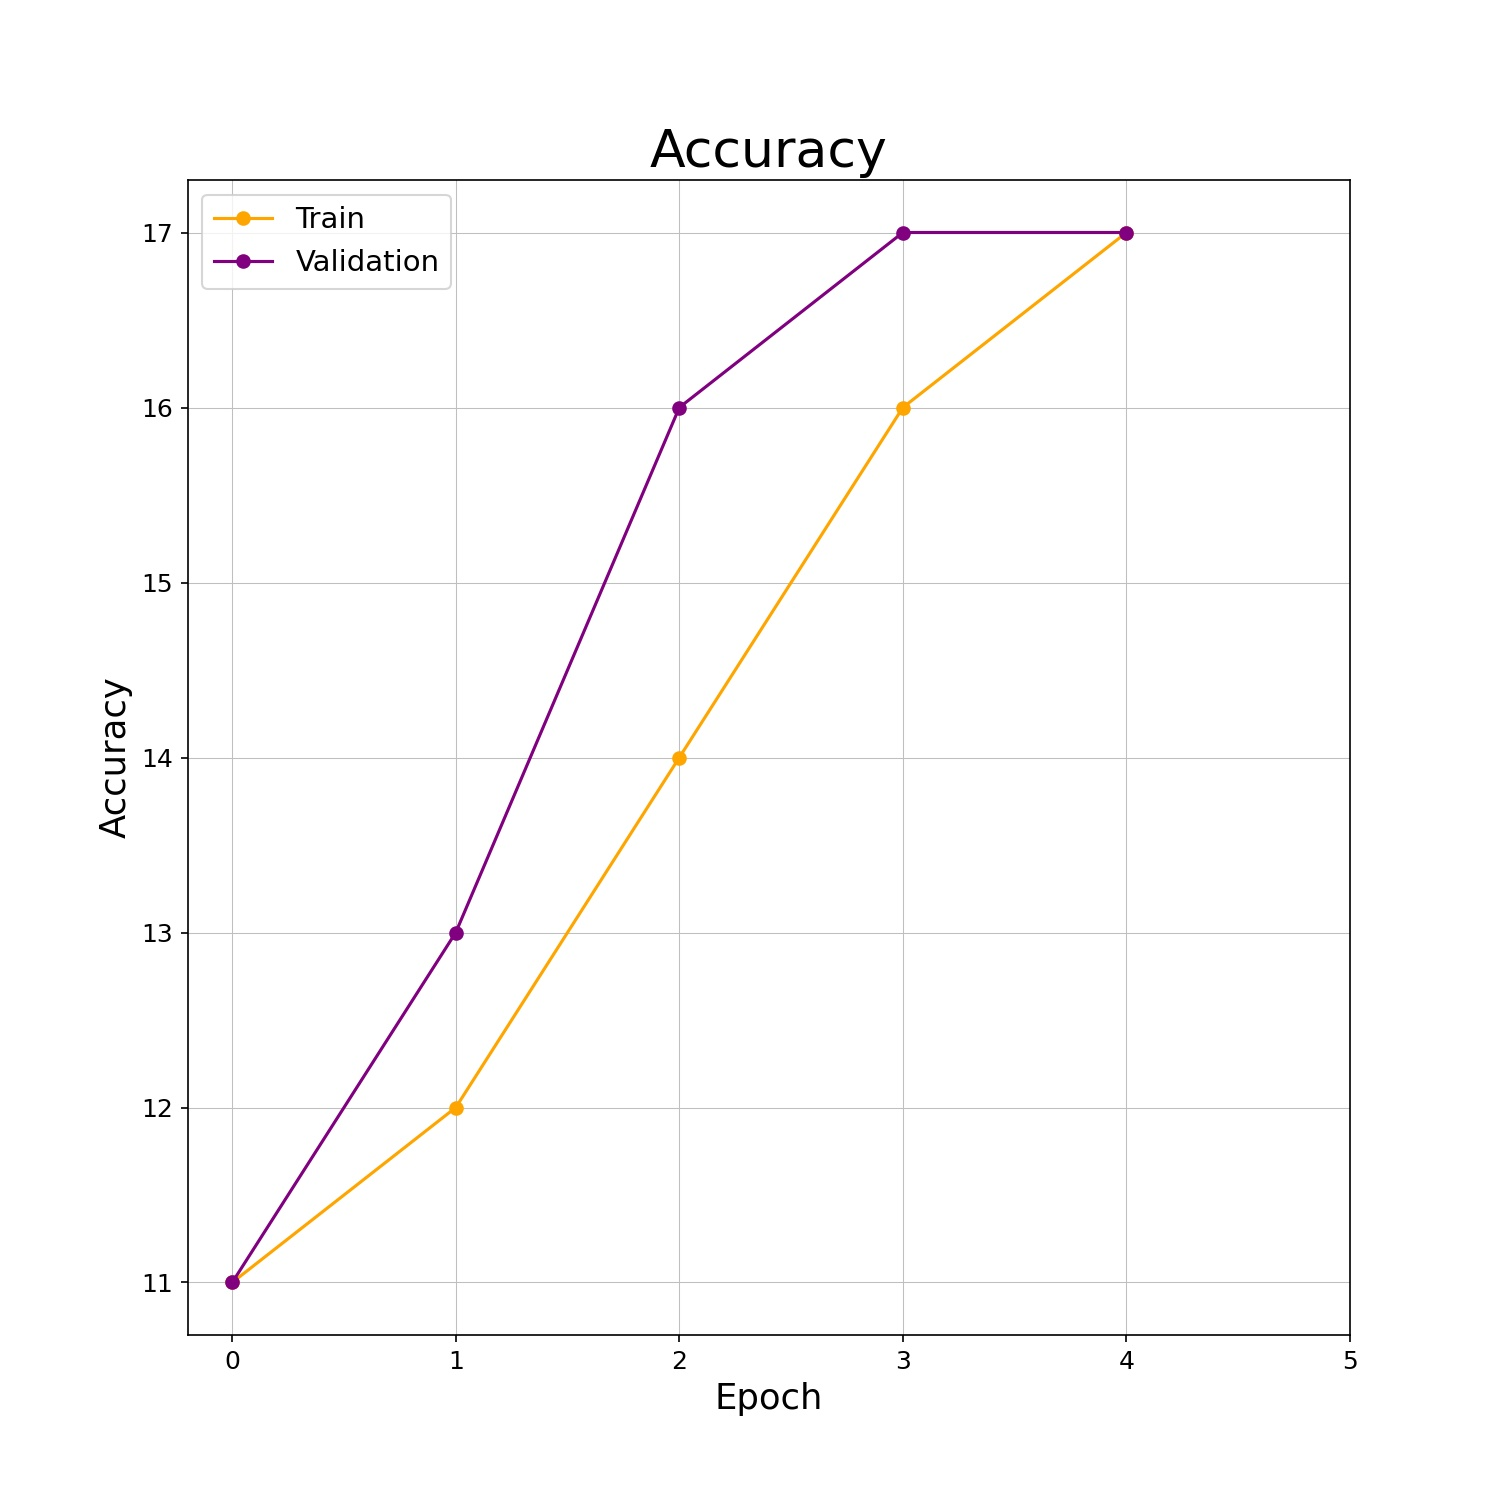
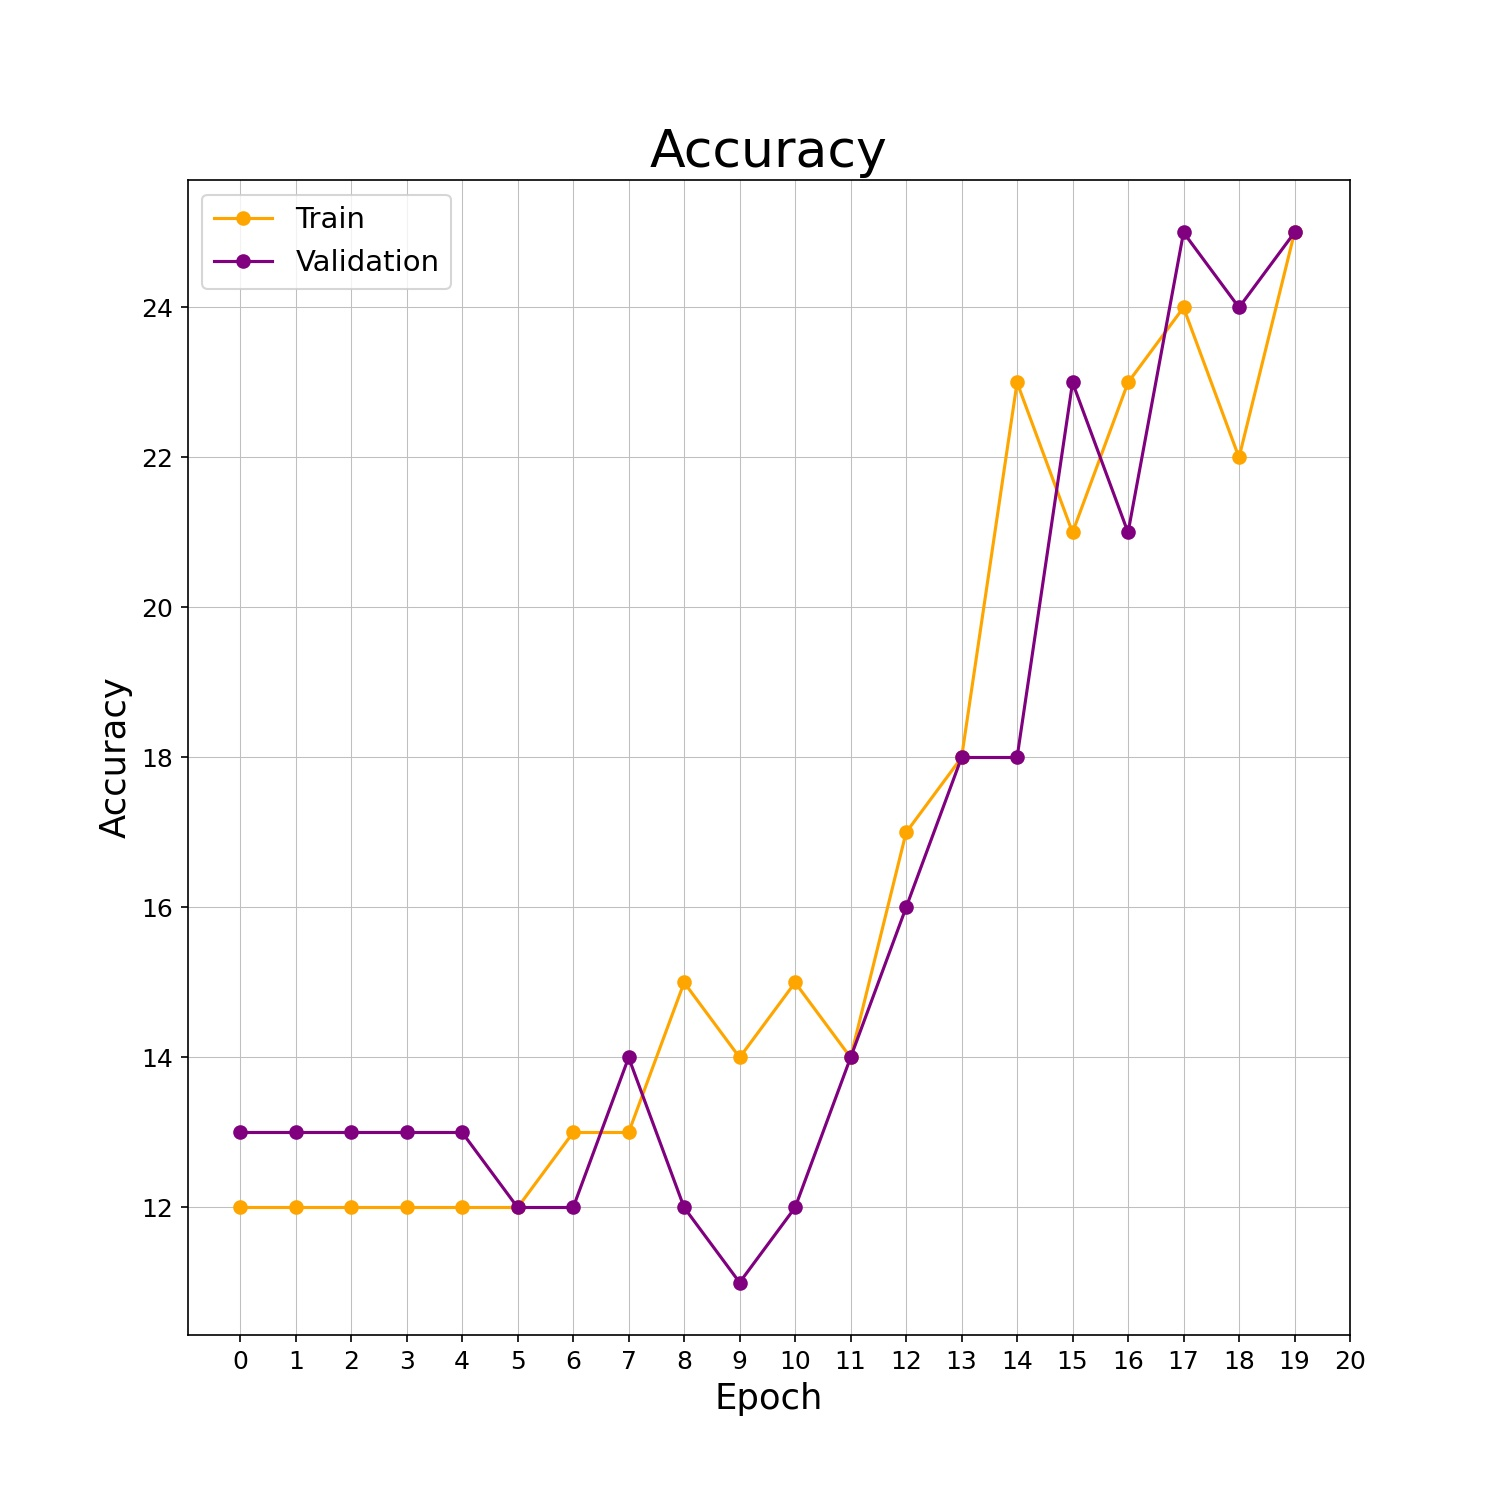
Now with val and train accuracy

diff --git a/Week 1/main.py b/Week 1/main.py
@@ -27,10 +27,11 @@ test_data_dir= root_dir + '/test'
 img_width = 224
 img_height=224
 batch_size=4
-epochs = 5
-# epochs = 200
+# epochs = 20
+epochs = 500
 
 ### CREATE DATASET
+# TODO - Put keras transformations
 transformation = transform.Compose([
     # you can add other transformations in this list
     ToTensor()
@@ -147,6 +148,7 @@ for epoch in range(epochs):  # loop over the dataset multiple times
             # calculate outputs by running images through the network
             outputs = net(images)
             
+            # TODO - Check val loss is correct            
             loss = criterion(outputs, labels)
             running_loss =+ loss.item() * images.size(0)
             
@@ -154,7 +156,8 @@ for epoch in range(epochs):  # loop over the dataset multiple times
             _, predicted = torch.max(outputs.data, 1)
             total += labels.size(0)
             correct += (predicted == labels).sum().item()
-            
+        
+        print(running_loss / len(valid_dataset))
         val_accuracies.append(100 * correct // total)
         val_losses.append(running_loss / len(valid_dataset))
         
@@ -178,12 +181,13 @@ plt.legend(loc='best',fontsize=14)
 plt.savefig('./MCV-M5-Team05/Week 1/accuracy.jpg', transparent=False)
 plt.close()
 
+# TODO - Check why loss is 0.04, why had we to change the range of ylim to (0,1) instead (0,4)
 plt.figure(figsize=(10,10),dpi=150)
 plt.plot(np.arange(0,epochs,offset),train_losses[::offset], marker='o', color='orange',label='Train')
 plt.plot(np.arange(0,epochs,offset),val_losses[::offset], marker='o', color='purple',label='Validation')
 plt.grid(color='0.75', linestyle='-', linewidth=0.5)
 plt.title('Loss',fontsize=25)
-plt.ylim(0, 4)
+plt.ylim(0, 1)
 plt.xticks(np.arange(0,epochs+offset,offset),fontsize=12)
 plt.yticks(fontsize=12)
 plt.ylabel('Loss',fontsize=17)
